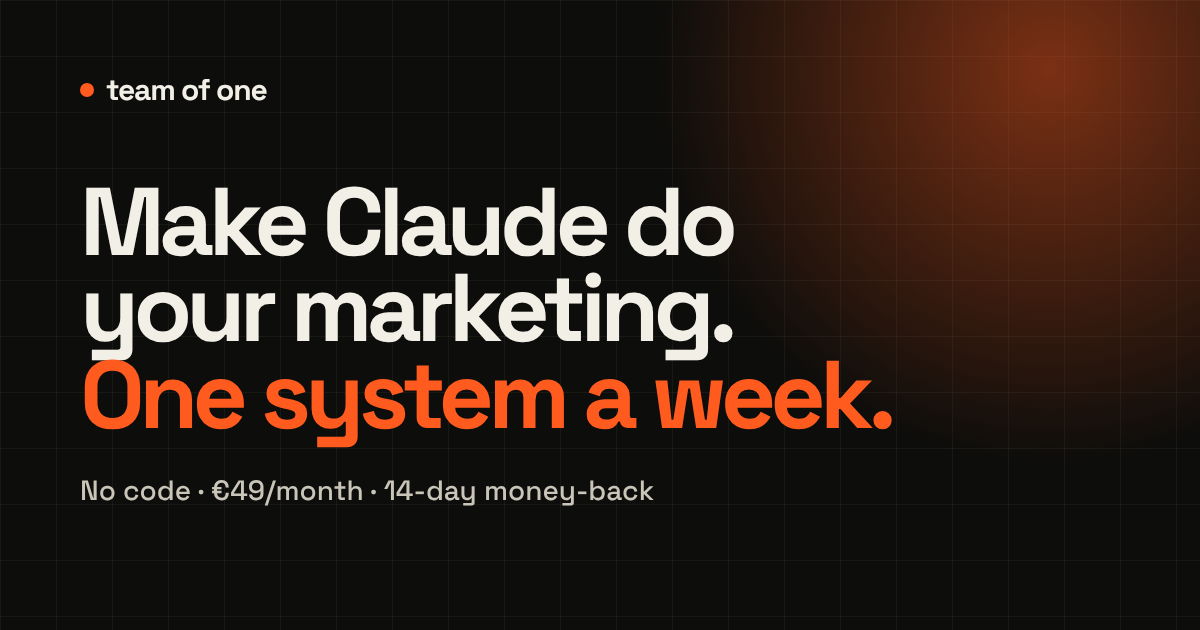
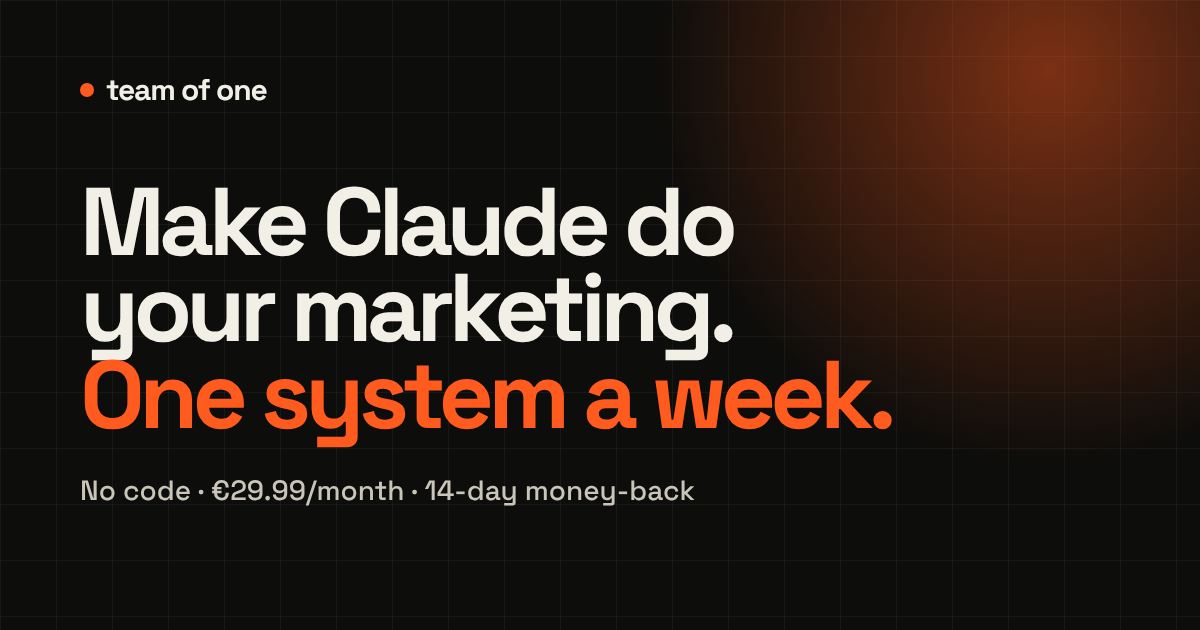
Wire Whop checkout at €29.99/mo, single price, one sticky CTA on mobile
Claude-Session: https://claude.ai/code/session_012c59vwuZyw6hprWWnW8SAV

Changed region(s): [[0.185, 0.754, 0.5858, 0.8143]]

diff --git a/index.html b/index.html
@@ -4,7 +4,7 @@
 <meta charset="utf-8">
 <meta name="viewport" content="width=device-width, initial-scale=1, viewport-fit=cover">
 <title>Team of One · Make Claude do your marketing</title>
-<meta name="description" content="One tested AI marketing system a week. I show you step by step, you copy the system, Claude does the work. No code. €49/month, 14-day money-back.">
+<meta name="description" content="One tested AI marketing system a week. I show you step by step, you copy the system, Claude does the work. No code. €29.99/month, 14-day money-back.">
 <link rel="canonical" href="https://teamofone.club/">
 <meta name="theme-color" content="#0d0d0b">
 <meta property="og:type" content="website">
@@ -53,7 +53,7 @@
         <a class="nl" href="#inside">What's inside</a>
         <a class="nl" href="#math">Do the math</a>
         <a class="nl" href="#faq">FAQ</a>
-        <a class="pill solid" href="#pricing" data-track="nav_join">Join · from €39/mo</a>
+        <a class="pill solid" href="#pricing" data-track="nav_join">Join · €29.99/mo</a>
       </span>
     </nav>
   </div>
@@ -68,7 +68,7 @@
   <p class="lead up" style="animation-delay:.75s;margin-left:auto;margin-right:auto">I show you step by step. You copy the system. <b>Claude does the work.</b></p>
   <div class="up" style="animation-delay:.9s;display:flex;justify-content:center;flex-wrap:wrap;align-items:center;gap:20px;margin-top:30px">
     <a class="cta" href="#pricing" data-magnetic data-track="hero_cta">Get this week's system<svg width="20" height="20" viewBox="0 0 24 24" fill="none" stroke="currentColor" stroke-width="2" stroke-linecap="round" stroke-linejoin="round" aria-hidden="true"><path d="M5 12h14M13 6l6 6-6 6"></path></svg></a>
-    <p class="micro" style="text-align:left">€49/month · cancel anytime<br>Tested in my own business first</p>
+    <p class="micro" style="text-align:left">€29.99/month · cancel anytime<br>Tested in my own business first</p>
   </div>
   <div class="outs up" style="animation-delay:1s">
     <span><b>01</b> Claude Code for Marketers</span>
@@ -118,9 +118,9 @@
       <div class="por rv"><p class="pb"><s>Your Friday goes on the weekly report.</s></p><span class="pa" aria-hidden="true">→</span><p class="pg2">Drafted in 20 min. You just check it.</p></div>
       <div class="por rv"><p class="pb"><s>Blank page every time you post.</s></p><span class="pa" aria-hidden="true">→</span><p class="pg2">A week of posts, in your voice.</p></div>
       <div class="por rv"><p class="pb"><s>Explaining your business to AI, every chat.</s></p><span class="pa" aria-hidden="true">→</span><p class="pg2">AI that already knows your business.</p></div>
-      <div class="por rv"><p class="pb"><s>Paying freelancers for repeat work.</s></p><span class="pa" aria-hidden="true">→</span><p class="pg2">Same output. €49 a month.</p></div>
+      <div class="por rv"><p class="pb"><s>Paying freelancers for repeat work.</s></p><span class="pa" aria-hidden="true">→</span><p class="pg2">Same output. €29.99 a month.</p></div>
     </div>
-    <div class="rv" style="display:flex;flex-wrap:wrap;align-items:center;gap:18px;margin-top:34px"><a class="cta" href="#pricing" data-magnetic data-track="pain_cta">Get my hours back<svg width="20" height="20" viewBox="0 0 24 24" fill="none" stroke="currentColor" stroke-width="2" stroke-linecap="round" stroke-linejoin="round" aria-hidden="true"><path d="M5 12h14M13 6l6 6-6 6"></path></svg></a><span style="color:#55524a;font-size:15px">€49/month · 14-day money-back</span></div>
+    <div class="rv" style="display:flex;flex-wrap:wrap;align-items:center;gap:18px;margin-top:34px"><a class="cta" href="#pricing" data-magnetic data-track="pain_cta">Get my hours back<svg width="20" height="20" viewBox="0 0 24 24" fill="none" stroke="currentColor" stroke-width="2" stroke-linecap="round" stroke-linejoin="round" aria-hidden="true"><path d="M5 12h14M13 6l6 6-6 6"></path></svg></a><span style="color:#55524a;font-size:15px">€29.99/month · 14-day money-back</span></div>
   </div>
 </section>
 
@@ -131,7 +131,7 @@
       <p class="eyebrow rv">Your first 30 days</p>
       <h2 class="h2 rv">What changes, <span class="m">and when.</span></h2>
       <p class="road-sub rv">No 6-week course before anything happens. Claude finishes a real job for you on day one.</p>
-      <div class="rv" style="margin-top:30px;display:flex;flex-direction:column;align-items:flex-start;gap:12px"><a class="cta" href="#pricing" data-magnetic data-track="roadmap_cta">Start day 1 today<svg width="20" height="20" viewBox="0 0 24 24" fill="none" stroke="currentColor" stroke-width="2" stroke-linecap="round" stroke-linejoin="round" aria-hidden="true"><path d="M5 12h14M13 6l6 6-6 6"></path></svg></a><span class="micro">€49/month · 14-day money-back</span></div>
+      <div class="rv" style="margin-top:30px;display:flex;flex-direction:column;align-items:flex-start;gap:12px"><a class="cta" href="#pricing" data-magnetic data-track="roadmap_cta">Start day 1 today<svg width="20" height="20" viewBox="0 0 24 24" fill="none" stroke="currentColor" stroke-width="2" stroke-linecap="round" stroke-linejoin="round" aria-hidden="true"><path d="M5 12h14M13 6l6 6-6 6"></path></svg></a><span class="micro">€29.99/month · 14-day money-back</span></div>
     </div>
     <div class="tl dk" data-timeline>
       <div class="tli rv"><span class="tld">Day 1</span><div class="tlc"><div class="tlh"><b>Your first job, done by AI.</b><span class="tag d">First job</span></div><p>Install one system. Claude finishes a real task.</p></div></div>
@@ -242,10 +242,10 @@
     <div class="calc rv" data-calc role="group" aria-label="Services you pay for today"></div>
     <div class="calcres rv" aria-live="polite">
       <div><span class="crl">You pay today</span><span class="cv">€<span data-total>0</span><i>/mo</i></span></div>
-      <div><span class="crl">With Team of One</span><span class="cv o">€49<i>/mo</i></span></div>
+      <div><span class="crl">With Team of One</span><span class="cv o">€29.99<i>/mo</i></span></div>
       <div><span class="crl">You keep each year</span><span class="cv">€<span data-yearly>0</span></span></div>
     </div>
-    <div style="text-align:center;margin-top:26px" class="rv"><a class="cta" href="#pricing" data-magnetic data-track="calc_cta">Bring that work in-house for €49<svg width="20" height="20" viewBox="0 0 24 24" fill="none" stroke="currentColor" stroke-width="2" stroke-linecap="round" stroke-linejoin="round" aria-hidden="true"><path d="M5 12h14M13 6l6 6-6 6"></path></svg></a></div>
+    <div style="text-align:center;margin-top:26px" class="rv"><a class="cta" href="#pricing" data-magnetic data-track="calc_cta">Bring that work in-house for €29.99<svg width="20" height="20" viewBox="0 0 24 24" fill="none" stroke="currentColor" stroke-width="2" stroke-linecap="round" stroke-linejoin="round" aria-hidden="true"><path d="M5 12h14M13 6l6 6-6 6"></path></svg></a></div>
   </div>
 </section>
 
@@ -254,16 +254,11 @@
   <div class="in">
     <p class="eyebrow rv" style="text-align:center">Pricing</p>
     <h2 class="h2 rv" style="text-align:center;margin-left:auto;margin-right:auto">Less than one hour <span class="o">of a freelancer.</span></h2>
-    <div class="tog rv" role="radiogroup" aria-label="Billing period" data-tog>
-      <span class="thumb" aria-hidden="true"></span>
-      <button type="button" class="tg" role="radio" aria-checked="false" data-billing="monthly">Monthly</button>
-      <button type="button" class="tg on" role="radio" aria-checked="true" data-billing="yearly">Yearly <span class="tag o">2 months free</span></button>
-    </div>
     <div class="plans3">
       <div class="ring rv"><div class="pcard" style="height:100%">
         <div style="display:flex;justify-content:space-between;align-items:center;gap:12px"><span class="sg" style="font-weight:600;font-size:20px">Member</span><span class="tag o">Most popular</span></div>
-        <div style="display:flex;align-items:flex-end;gap:8px"><span class="amt" style="font-size:clamp(64px,6vw,88px)">€<span data-price="member">39</span></span><span class="sg" style="font-size:16px;color:#9a968b;padding-bottom:6px">/ month</span></div>
-        <span class="micro" data-note="member">Billed €470 a year · 2 months free</span>
+        <div style="display:flex;align-items:flex-end;gap:8px"><span class="amt" style="font-size:clamp(64px,6vw,88px)">€29<span class="cents">.99</span></span><span class="sg" style="font-size:16px;color:#9a968b;padding-bottom:6px">/ month</span></div>
+        <span class="micro">Billed monthly · cancel anytime</span>
         <p class="pl"><svg width="20" height="20" viewBox="0 0 24 24" fill="none" stroke="#ff5b1f" stroke-width="2.4" stroke-linecap="round" stroke-linejoin="round" aria-hidden="true"><path d="M5 12l5 5 9-10"></path></svg>Every course and system</p>
         <p class="pl"><svg width="20" height="20" viewBox="0 0 24 24" fill="none" stroke="#ff5b1f" stroke-width="2.4" stroke-linecap="round" stroke-linejoin="round" aria-hidden="true"><path d="M5 12l5 5 9-10"></path></svg>A new system every Monday</p>
         <p class="pl"><svg width="20" height="20" viewBox="0 0 24 24" fill="none" stroke="#ff5b1f" stroke-width="2.4" stroke-linecap="round" stroke-linejoin="round" aria-hidden="true"><path d="M5 12l5 5 9-10"></path></svg>Community access</p>
@@ -272,8 +267,8 @@
       </div></div>
       <div class="side rv">
         <span class="sg" style="font-weight:600;font-size:20px">Plus</span>
-        <div style="display:flex;align-items:flex-end;gap:8px"><span class="amt" style="font-size:clamp(64px,6vw,88px)">€<span data-price="plus">79</span></span><span class="sg" style="font-size:16px;color:#9a968b;padding-bottom:6px">/ month</span></div>
-        <span class="micro" data-note="plus">Billed €950 a year</span>
+        <div style="display:flex;align-items:flex-end;gap:8px"><span class="amt" style="font-size:clamp(64px,6vw,88px)">€99</span><span class="sg" style="font-size:16px;color:#9a968b;padding-bottom:6px">/ month</span></div>
+        <span class="micro">Billed monthly · cancel anytime</span>
         <p class="pl"><svg width="20" height="20" viewBox="0 0 24 24" fill="none" stroke="#ff5b1f" stroke-width="2.4" stroke-linecap="round" stroke-linejoin="round" aria-hidden="true"><path d="M5 12l5 5 9-10"></path></svg>Everything in Member</p>
         <p class="pl"><svg width="20" height="20" viewBox="0 0 24 24" fill="none" stroke="#ff5b1f" stroke-width="2.4" stroke-linecap="round" stroke-linejoin="round" aria-hidden="true"><path d="M5 12l5 5 9-10"></path></svg>Private group chat with the team</p>
         <p class="pl"><svg width="20" height="20" viewBox="0 0 24 24" fill="none" stroke="#ff5b1f" stroke-width="2.4" stroke-linecap="round" stroke-linejoin="round" aria-hidden="true"><path d="M5 12l5 5 9-10"></path></svg>Priority answers, same working day</p>
@@ -321,12 +316,12 @@
     <p class="eyebrow rv">Ready?</p>
     <h2 class="mega rv">Stop doing it.<br><span class="o">Start approving it.</span></h2>
     <a class="cta rv" href="#pricing" data-magnetic data-track="final_cta">Get this week's system<svg width="20" height="20" viewBox="0 0 24 24" fill="none" stroke="currentColor" stroke-width="2" stroke-linecap="round" stroke-linejoin="round" aria-hidden="true"><path d="M5 12h14M13 6l6 6-6 6"></path></svg></a>
-    <p class="micro rv">Cancel anytime · 14-day money-back · from €39/month</p>
+    <p class="micro rv">Cancel anytime · 14-day money-back · €29.99/month</p>
   </div>
 </section>
 </main>
 
-<a class="mbar" href="#pricing" data-track="mobile_bar"><span>This week's system</span><b>from €39/mo →</b></a>
+<a class="mbar" href="#pricing" data-track="mobile_bar"><span>This week's system</span><b>€29.99/mo →</b></a>
 <div class="in">
   <footer class="foot"><a class="logo" href="#top" style="font-size:18px"><span class="dot"></span>team of one</a><span>Run by in-house marketers who use these systems at work every week.</span><nav class="flinks" aria-label="Footer"><a href="/terms">Terms</a><a href="/privacy">Privacy</a><a href="mailto:hello@teamofone.club">Contact</a></nav></footer>
 </div>

diff --git a/app.js b/app.js
@@ -8,7 +8,7 @@
    * opens a "doors open soon" modal instead of a dead click.
    * ------------------------------------------------------------------ */
   var CHECKOUT = {
-    member: { monthly: '', yearly: '' },
+    member: { monthly: 'https://whop.com/checkout/plan_dOhdkjz7z3sBC', yearly: 'https://whop.com/checkout/plan_dOhdkjz7z3sBC' },
     plus:   { monthly: '', yearly: '' }
   };
   var CONTACT_EMAIL = 'hello@teamofone.club';
@@ -216,7 +216,7 @@
       var total = SERVICES.filter(function (s) { return sel.indexOf(s.id) >= 0; })
         .reduce(function (a, s) { return a + s.cost; }, 0);
       animate(totalEl, total);
-      animate(yearlyEl, Math.max(0, (total - 49) * 12));
+      animate(yearlyEl, Math.max(0, (total - 29.99) * 12));
     };
     calc.addEventListener('click', function (e) {
       var b = e.target.closest('.svc'); if (!b) return;
@@ -236,7 +236,7 @@
   }
 
   /* ---------- pricing toggle ---------- */
-  var billing = 'yearly';
+  var billing = 'monthly';
   var tog = $('[data-tog]');
   if (tog) {
     var thumb = $('.thumb', tog), btns = $$('.tg', tog);

diff --git a/styles.css b/styles.css
@@ -605,3 +605,8 @@ summary:hover .pm{background:#ff5b1f;color:#0d0d0b}
   .wf .wc.dim{display:none}
   .swipe{display:block;text-align:center;margin:6px 0 0;font-family:'Space Grotesk',sans-serif;font-size:13px;letter-spacing:.06em;text-transform:uppercase;color:#77746b}
 }
+
+/* v3: single price with cents; one sticky CTA on mobile (bottom bar, header scrolls away) */
+.amt .cents{font-size:.4em;letter-spacing:-.03em;margin-left:.04em}
+.plans3{margin-top:44px}
+@media (max-width:760px){.hdr{position:relative}}
